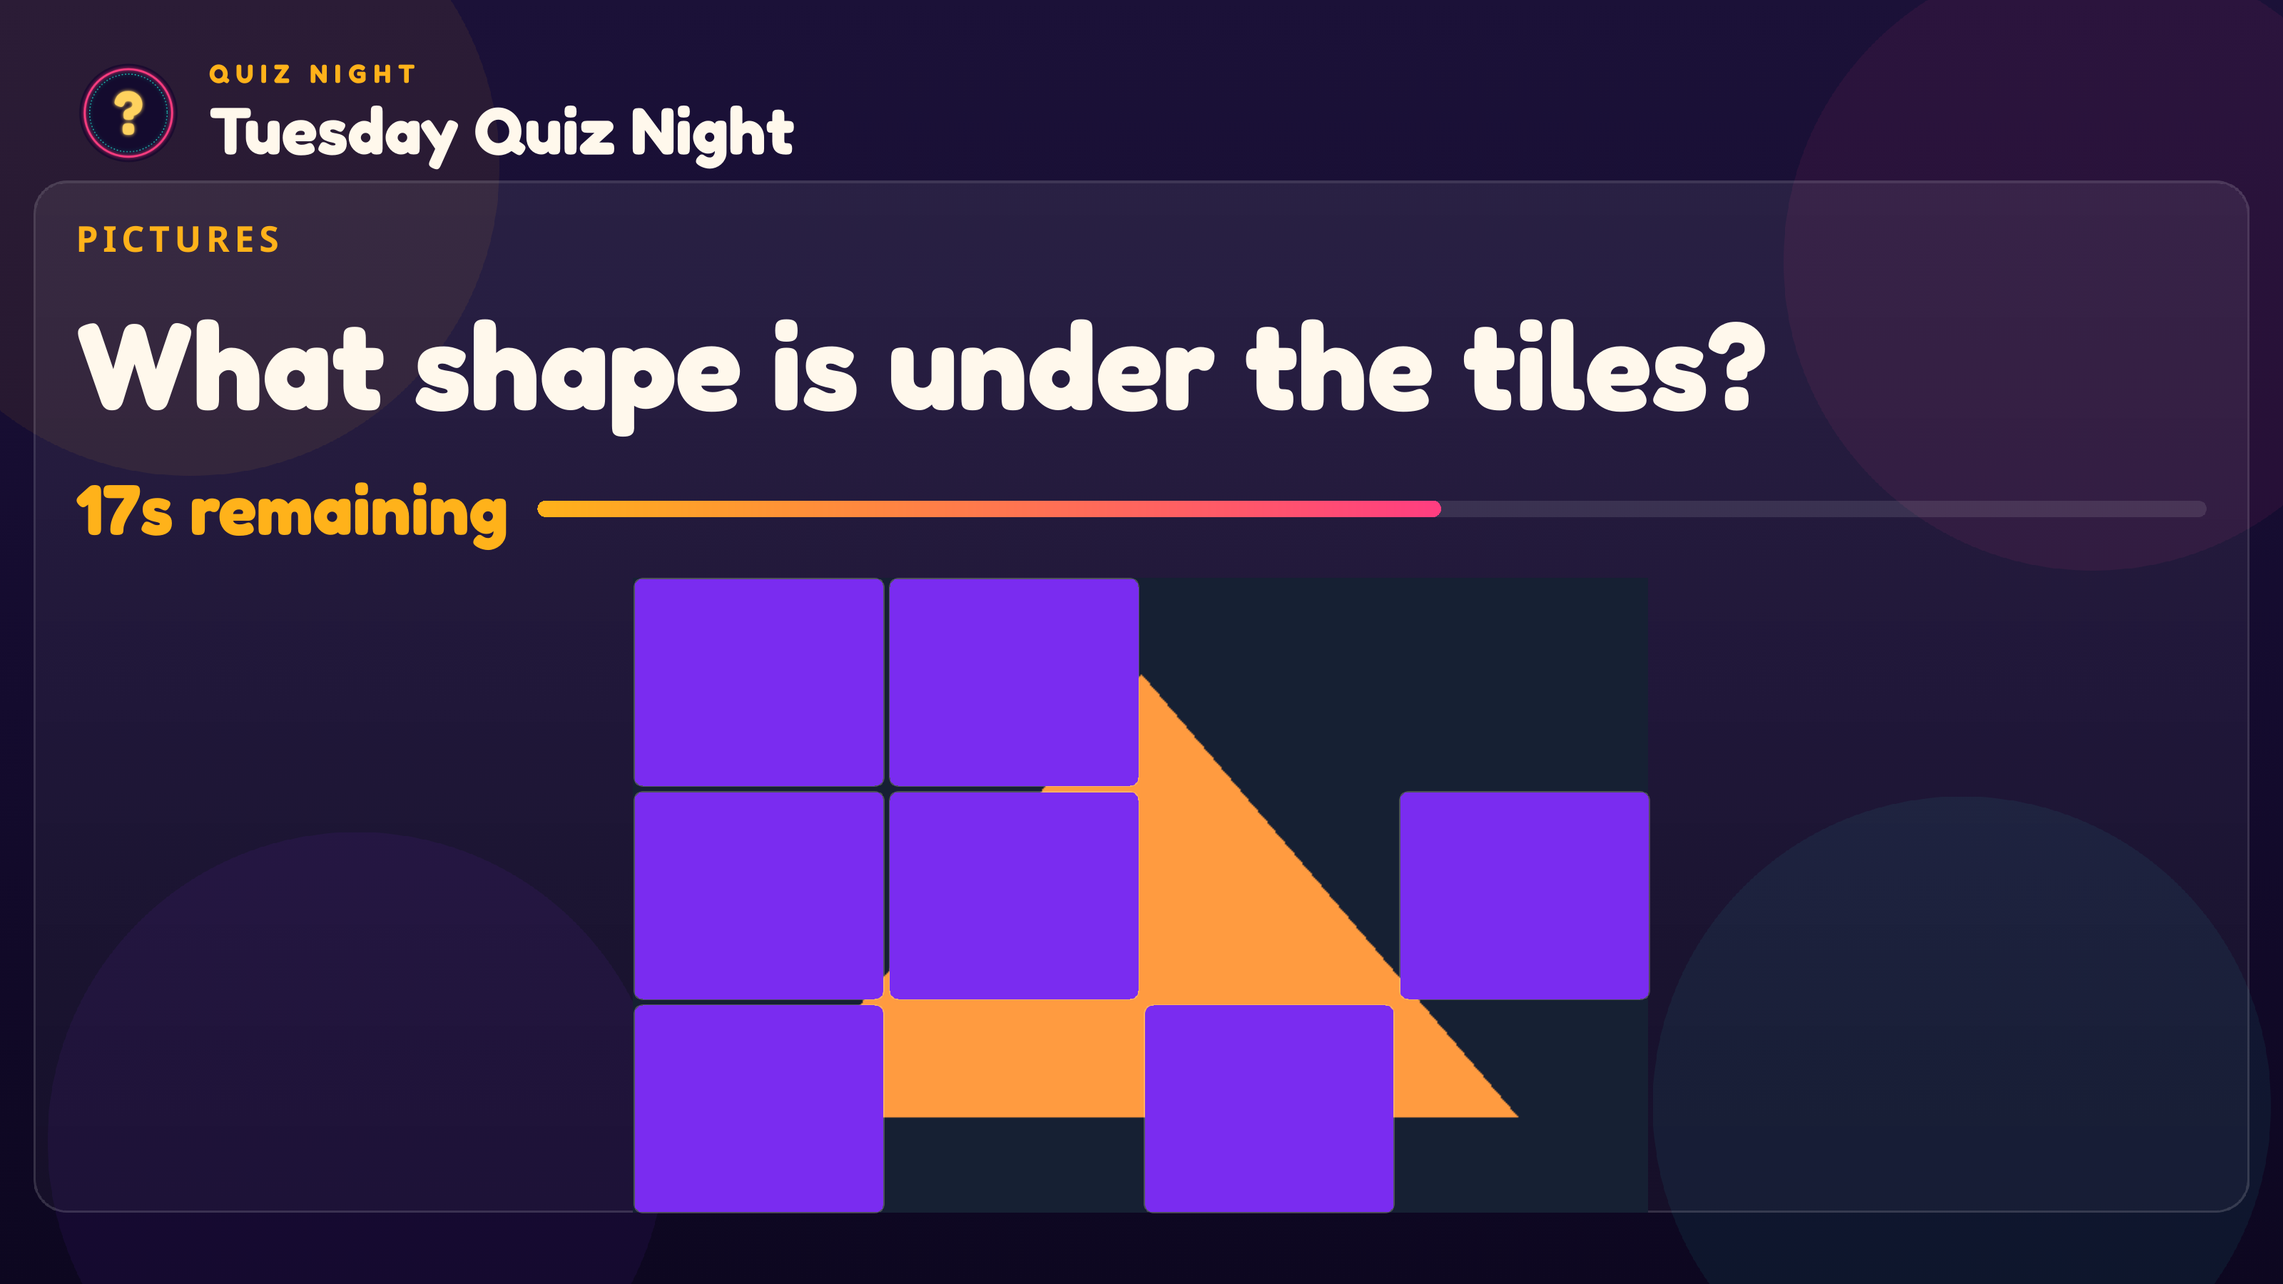
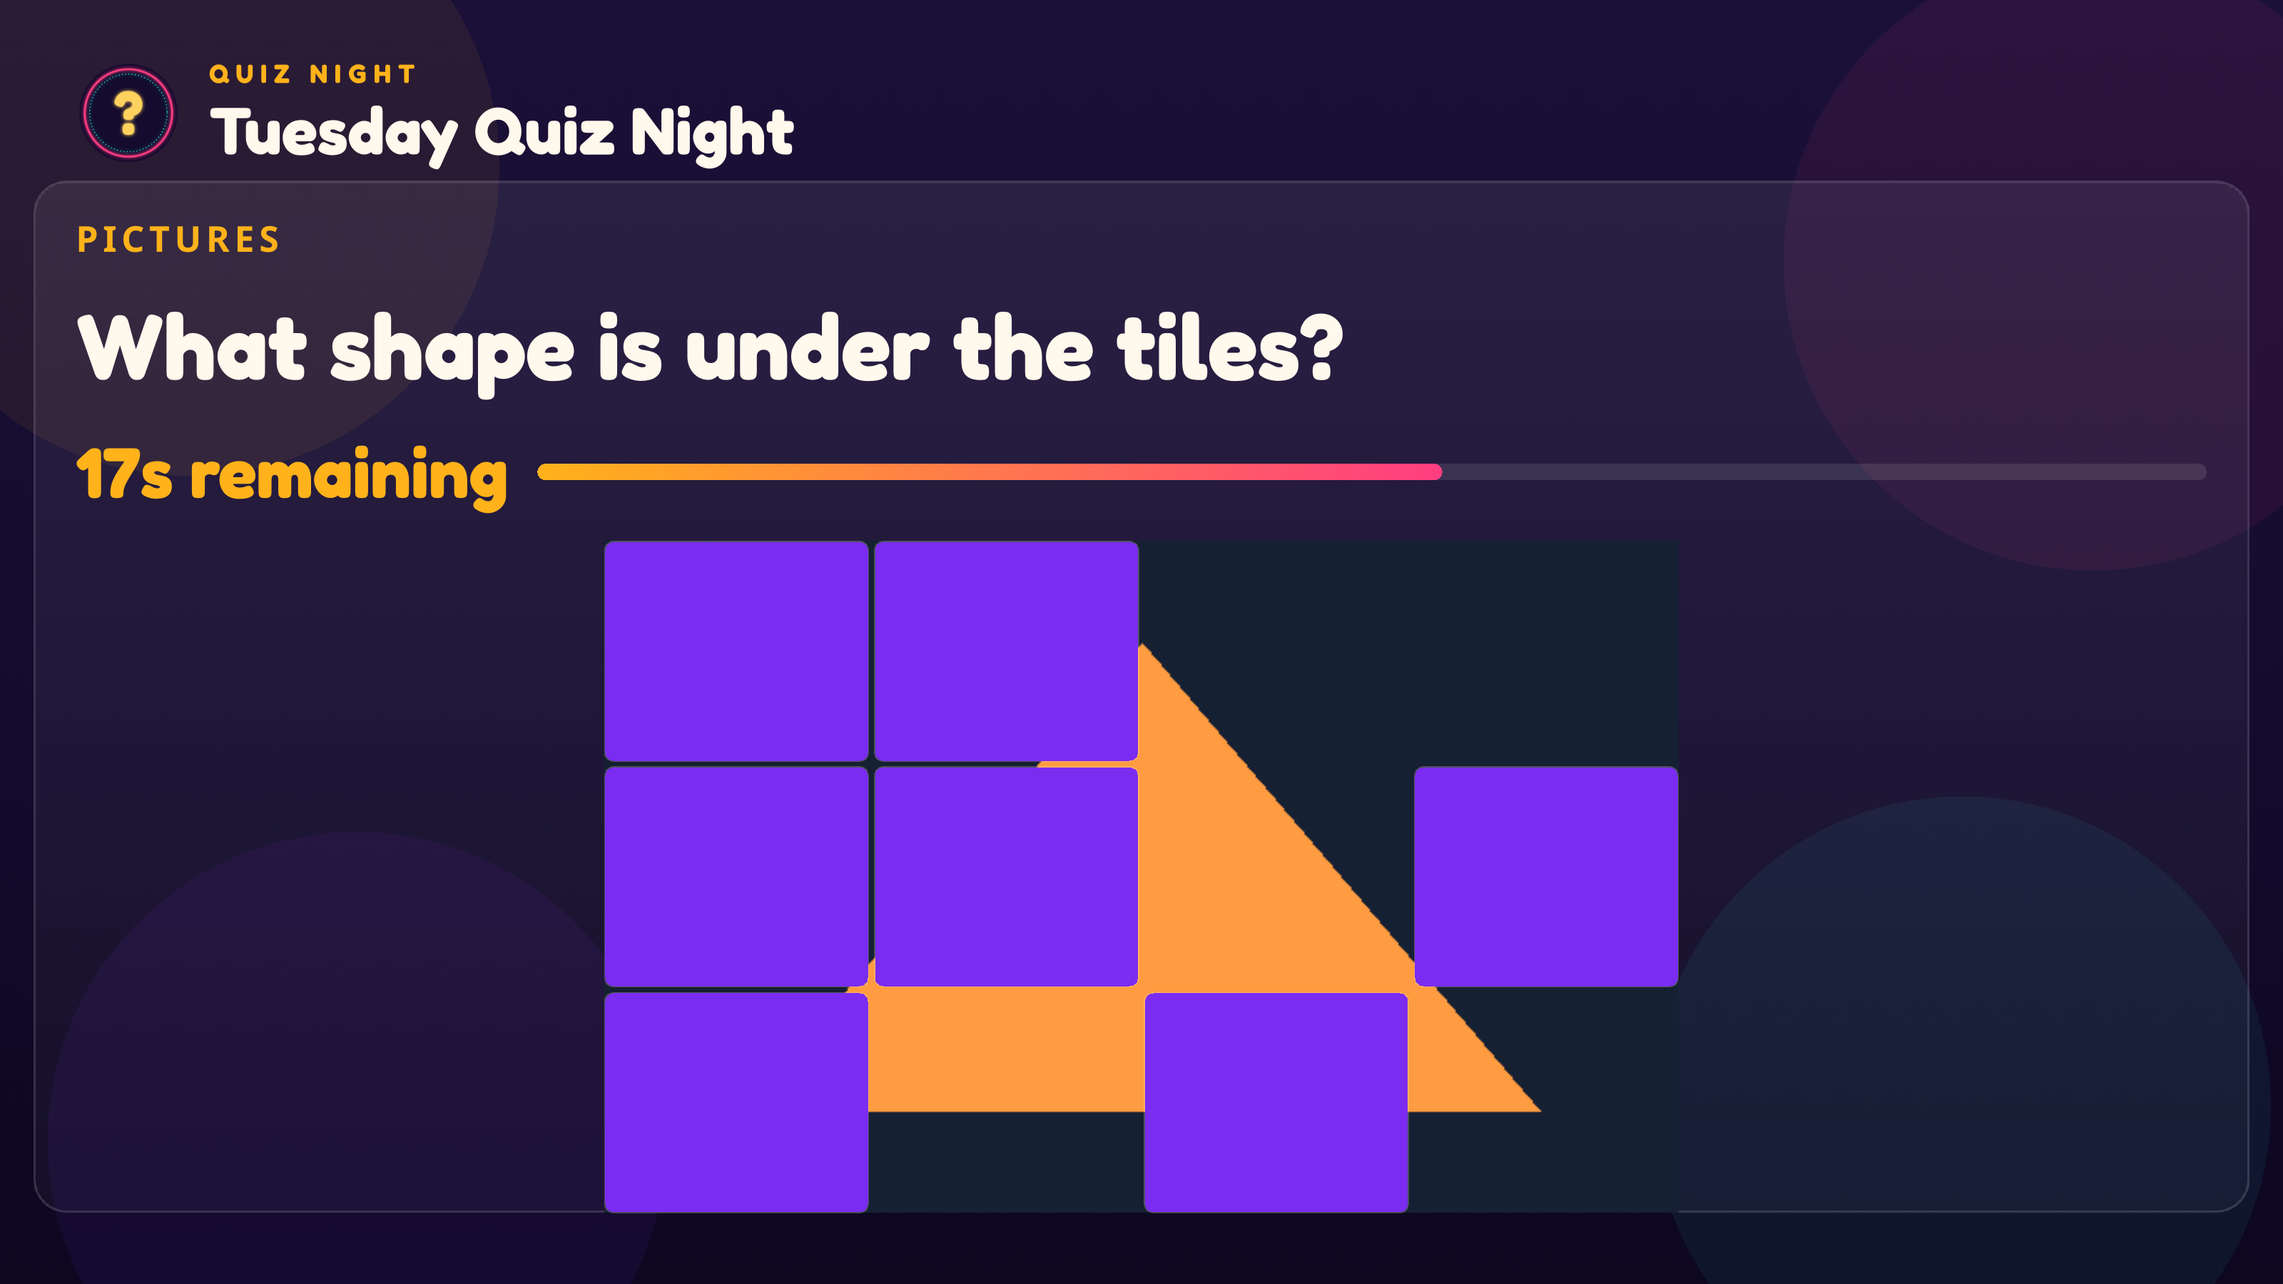
Qt TV: music bingo's reaction table beside the song; long questions fit
With the bigger question (#51) a two-line music bingo question squeezed the song
and its last title until the reaction table was drawn over them (the website's
screenshot showed it). The reaction table now sits beside the song, the bingo
area keeps the height its lines need, and rounds with a lot under the question
(bingo, pictures, lists, grids, clips) keep the smaller question sizes.

Tests: music bingo with a long question has nothing drawn over anything else
(fails on the old TV); every round format with a long question keeps everything
on the screen. The website's TV screenshots are retaken.

Changed region(s): [[0.0312, 0.2489, 0.7812, 0.9644]]

diff --git a/native/beermat_desk/qml/TvStage.qml b/native/beermat_desk/qml/TvStage.qml
@@ -224,6 +224,7 @@ Item {
             // Question
             Item {
                 id: questionView
+                objectName: "questionView"
                 anchors.fill: parent
                 // The look's panel behind the question (tv.json's panel), as the web TV's card.
                 Rectangle {
@@ -263,8 +264,10 @@ Item {
                         Layout.fillWidth: true
                         text: questionView.q ? questionView.q.text : root.t("Waiting for the quizmaster")
                         color: root.pal.text; font.family: Theme.display; font.weight: Font.Bold; wrapMode: Text.WordWrap
-                        // As big as the web TV's: the room reads the question from the back.
-                        font.pixelSize: text.length > 140 ? 66 : text.length > 80 ? 84 : 104
+                        // As big as the web TV's when answers or a short line follow; a round with a lot under the question
+                        // (a board, a picture, a list, a grid) keeps it smaller so all of it fits.
+                        readonly property bool roomy: !questionView.q || ["choice", "vote", "multi", "text", "letter", "number", "nearest", "buzzer"].includes(questionView.q.type) && !questionView.isImage
+                        font.pixelSize: roomy ? (text.length > 140 ? 66 : text.length > 80 ? 84 : 104) : (text.length > 140 ? 54 : text.length > 80 ? 66 : 78)
                     }
                     // Time left, from the server's deadline.
                     RowLayout {
@@ -484,50 +487,59 @@ Item {
                                 }
                             }
                             }
-                            // Bingo: the last ball and the board.
-                            Column {
-                                id: bingoBox
-                                readonly property var g: questionView.q ? questionView.q.bingo : null
-                                visible: !!g
-                                spacing: 16
+                            // The ball (or song) and, for music bingo, the reaction table beside it rather than under it.
+                            RowLayout {
+                                visible: !!questionView.q && !!questionView.q.bingo
                                 Layout.fillWidth: true; Layout.fillHeight: visible; Layout.preferredHeight: 300; Layout.verticalStretchFactor: 1000
-                                // The board across the width, its numbers as tall as the space under the ball allows.
-                                readonly property real cellWidth: Math.max(54, Math.min(140, (width - 14 * 6) / 15))
-                                readonly property real cellHeight: Math.max(42, Math.min(cellWidth * 0.75, (height - ball.height - phrase.height - called.height - 4 * spacing - 5 * 6) / 6))
-                                Text { id: ball; text: !parent.g ? "" : parent.g.music ? (parent.g.played ? "🎵 " + root.t("Song {n}", {n: parent.g.played}) : "🎵") : (parent.g.last !== null && parent.g.last !== undefined ? parent.g.last : "–")
-                                       color: root.pal.goldHi; font.family: Theme.display; font.pixelSize: 160; font.weight: Font.Bold }
-                                Text { id: phrase; text: !parent.g ? "" : parent.g.music ? (parent.g.titles && parent.g.titles.length ? root.t("Last revealed: {title}", {title: parent.g.titles[parent.g.titles.length - 1]}) : "") : (root.settings.bingoPhrases && parent.g.phrase ? parent.g.phrase : "")
-                                       color: root.pal.text; font.pixelSize: 40 }
-                                Text { id: called; text: parent.g && parent.g.winners && parent.g.winners.length ? root.t("Winner: {names}", {names: parent.g.winners.map(w => w.name || w).join(", ")}) : parent.g && !parent.g.music ? root.t("{n} called", {n: parent.g.count || 0}) : ""
-                                       color: root.pal.muted; font.pixelSize: 34 }
-                                Grid {
-                                    visible: !!parent.g && !parent.g.music && !!parent.g.board
-                                    columns: 15; spacing: 6
-                                    Repeater {
-                                        model: 90
-                                        delegate: Rectangle {
-                                            required property int index
-                                            readonly property bool called: !!questionView.q && !!questionView.q.bingo && (questionView.q.bingo.called || []).includes(index + 1)
-                                            width: bingoBox.cellWidth; height: bingoBox.cellHeight; radius: 8
-                                            color: called ? root.pal.gold : Qt.rgba(1, 1, 1, 0.06)
-                                            Text { anchors.centerIn: parent; text: index + 1; color: parent.called ? root.pal.onAccent : root.pal.faint; font.pixelSize: Math.max(20, bingoBox.cellHeight * 0.48); font.weight: Font.Bold }
+                                spacing: 60
+                                // Bingo: the last ball and the board.
+                                Column {
+                                    id: bingoBox
+                                    readonly property var g: questionView.q ? questionView.q.bingo : null
+                                    visible: !!g
+                                    spacing: 16
+                                    Layout.fillWidth: true; Layout.fillHeight: visible; Layout.alignment: Qt.AlignTop
+                                    // Never squeezed below the ball and its lines.
+                                    Layout.minimumHeight: visible ? ball.height + phrase.height + called.height + 2 * spacing : 0
+                                    // The board across the width, its numbers as tall as the space under the ball allows.
+                                    readonly property real cellWidth: Math.max(54, Math.min(140, (width - 14 * 6) / 15))
+                                    readonly property real cellHeight: Math.max(42, Math.min(cellWidth * 0.75, (height - ball.height - phrase.height - called.height - 4 * spacing - 5 * 6) / 6))
+                                    Text { id: ball; text: !parent.g ? "" : parent.g.music ? (parent.g.played ? "🎵 " + root.t("Song {n}", {n: parent.g.played}) : "🎵") : (parent.g.last !== null && parent.g.last !== undefined ? parent.g.last : "–")
+                                           color: root.pal.goldHi; font.family: Theme.display; font.pixelSize: 160; font.weight: Font.Bold }
+                                    Text { id: phrase; text: !parent.g ? "" : parent.g.music ? (parent.g.titles && parent.g.titles.length ? root.t("Last revealed: {title}", {title: parent.g.titles[parent.g.titles.length - 1]}) : "") : (root.settings.bingoPhrases && parent.g.phrase ? parent.g.phrase : "")
+                                           color: root.pal.text; font.pixelSize: 40 }
+                                    Text { id: called; text: parent.g && parent.g.winners && parent.g.winners.length ? root.t("Winner: {names}", {names: parent.g.winners.map(w => w.name || w).join(", ")}) : parent.g && !parent.g.music ? root.t("{n} called", {n: parent.g.count || 0}) : ""
+                                           color: root.pal.muted; font.pixelSize: 34 }
+                                    Grid {
+                                        visible: !!parent.g && !parent.g.music && !!parent.g.board
+                                        columns: 15; spacing: 6
+                                        Repeater {
+                                            model: 90
+                                            delegate: Rectangle {
+                                                required property int index
+                                                readonly property bool called: !!questionView.q && !!questionView.q.bingo && (questionView.q.bingo.called || []).includes(index + 1)
+                                                width: bingoBox.cellWidth; height: bingoBox.cellHeight; radius: 8
+                                                color: called ? root.pal.gold : Qt.rgba(1, 1, 1, 0.06)
+                                                Text { anchors.centerIn: parent; text: index + 1; color: parent.called ? root.pal.onAccent : root.pal.faint; font.pixelSize: Math.max(20, bingoBox.cellHeight * 0.48); font.weight: Font.Bold }
+                                            }
                                         }
                                     }
                                 }
-                            }
-                            // Music bingo's reaction table: who dabbed the song playing, quickest first.
-                            Column {
-                                readonly property var r: questionView.q ? questionView.q.reactionTable : null
-                                visible: !!r
-                                spacing: 8
-                                Text { text: parent.r ? root.t("Reactions · song {n}", {n: parent.r.song}) : ""; color: root.pal.teal; font.pixelSize: 34; font.weight: Font.Bold }
-                                Repeater {
-                                    model: parent.r ? parent.r.now.slice(0, 5) : []
-                                    delegate: Text { required property var modelData; required property int index
-                                                     text: `${index + 1}. ${modelData.name}  ${(modelData.ms / 1000).toFixed(1)}s`; color: index === 0 ? root.pal.goldHi : root.pal.text; font.pixelSize: 36; font.weight: Font.DemiBold }
+                                // Music bingo's reaction table: who dabbed the song playing, quickest first.
+                                Column {
+                                    readonly property var r: questionView.q ? questionView.q.reactionTable : null
+                                    visible: !!r
+                                    Layout.alignment: Qt.AlignTop; Layout.preferredWidth: 760
+                                    spacing: 8
+                                    Text { text: parent.r ? root.t("Reactions · song {n}", {n: parent.r.song}) : ""; color: root.pal.teal; font.pixelSize: 34; font.weight: Font.Bold }
+                                    Repeater {
+                                        model: parent.r ? parent.r.now.slice(0, 5) : []
+                                        delegate: Text { required property var modelData; required property int index
+                                                         text: `${index + 1}. ${modelData.name}  ${(modelData.ms / 1000).toFixed(1)}s`; color: index === 0 ? root.pal.goldHi : root.pal.text; font.pixelSize: 36; font.weight: Font.DemiBold }
+                                    }
+                                    Text { visible: !!parent.r && parent.r.leaders.length > 0; color: root.pal.muted; font.pixelSize: 28
+                                           text: parent.r ? root.t("Quickest on most songs") + ": " + parent.r.leaders.map(l => `${l.name} (${l.songs})`).join(" · ") : "" }
                                 }
-                                Text { visible: !!parent.r && parent.r.leaders.length > 0; color: root.pal.muted; font.pixelSize: 28
-                                       text: parent.r ? root.t("Quickest on most songs") + ": " + parent.r.leaders.map(l => `${l.name} (${l.songs})`).join(" · ") : "" }
                             }
                             // Sound clips game
                             Column {

diff --git a/native/tests/test_tvstage.py b/native/tests/test_tvstage.py
@@ -403,6 +403,65 @@ class TvStageTest(unittest.TestCase):
         self.assertTrue(red.red() > 200 and red.green() < 140 and red.blue() < 140, f'A is solid red: {red.name()}')
         self.assertTrue(blue.blue() > 200 and blue.red() < 120, f'B is solid blue: {blue.name()}')
 
+    def test_music_bingo_with_a_long_question_doesnt_overlap(self):
+        """A two-line question over music bingo's song, its last title and the reaction table: each line below the
+        other, none drawn over another, all on the screen (as on the website's screenshot)."""
+        names = ['Agatha Quiztie', 'Quiz Team Aguilera', 'Tequila Mockingbird', 'The Quizzly Bears', 'Universally Challenged']
+        self.show(state(q=question(type='musicbingo', options=[], text='Music bingo: dab each song as soon as you know it', round='Music bingo',
+                                   bingo={'played': 7, 'titles': ['Darts Final'], 'winners': [], 'board': False, 'music': True},
+                                   reactionTable={'song': 7, 'now': [{'name': n, 'ms': 700 * (i + 1)} for i, n in enumerate(names)],
+                                                  'leaders': [{'name': 'Agatha Quiztie', 'songs': 1}]})), 'reactions-long')
+        for _ in range(30):
+            app.processEvents(); time.sleep(0.02)
+        def items(item):
+            yield item
+            for child in item.childItems():
+                yield from items(child)
+        wanted = ['Song 7', 'Last revealed: Darts Final', 'Reactions · song 7', 'Universally Challenged']
+        boxes = {}
+        for item in items(self.stage):
+            text = item.property('text')
+            if isinstance(text, str) and item.property('visible') and item.property('opacity') and any(w in text for w in wanted):
+                # Both corners on the stage (what's inside is scaled to fit the screen).
+                p, q = item.mapToItem(self.stage, 0, 0), item.mapToItem(self.stage, item.property('contentWidth'), item.property('height'))
+                boxes[next(w for w in wanted if w in text)] = (p.x(), p.y(), q.x(), q.y())
+        self.assertEqual(sorted(boxes), sorted(wanted))
+        def apart(a, b):
+            return a[2] <= b[0] + 1 or b[2] <= a[0] + 1 or a[3] <= b[1] + 1 or b[3] <= a[1] + 1
+        for i, a in enumerate(wanted):
+            for b in wanted[i + 1:]:
+                self.assertTrue(apart(boxes[a], boxes[b]), f'{a} {boxes[a]} drawn over {b} {boxes[b]}')
+        self.assertLessEqual(max(b[3] for b in boxes.values()), 1080, 'all of it on the screen')
+
+    def test_a_long_question_leaves_every_round_on_the_screen(self):
+        """Every round format with a question long enough to take two or three lines: nothing that shows runs off the
+        bottom of the TV."""
+        long = 'In which year did the first team to win the competition three times in a row finally lift the trophy at home?'
+        def items(item):
+            yield item
+            for child in item.childItems():
+                yield from items(child)
+        for name, s in CASES.items():
+            q = s.get('question')
+            if not q or s.get('view') not in (None, 'question'):
+                continue
+            self.show({**s, 'question': {**q, 'text': long}})
+            for _ in range(20):
+                app.processEvents(); time.sleep(0.02)
+            view = next(i for i in items(self.stage) if i.objectName() == 'questionView')
+            over = []
+            for item in items(view):
+                text = item.property('text')
+                try:
+                    shows = item.property('visible') and item.property('opacity') and item.property('height') > 0
+                except TypeError:
+                    continue
+                if shows and isinstance(text, str) and text.strip():
+                    bottom = item.mapToItem(self.stage, 0, item.property('height')).y()
+                    if bottom > 1080 + 1:
+                        over.append((text[:30], round(bottom)))
+            self.assertEqual(over, [], f'{name}: past the bottom of the TV')
+
     def test_wheel_spins_once_for_a_spin_seen_happening(self):
         spin = self.stage.findChild(QObject, 'wheelSpin')
         self.show(state('join'))
